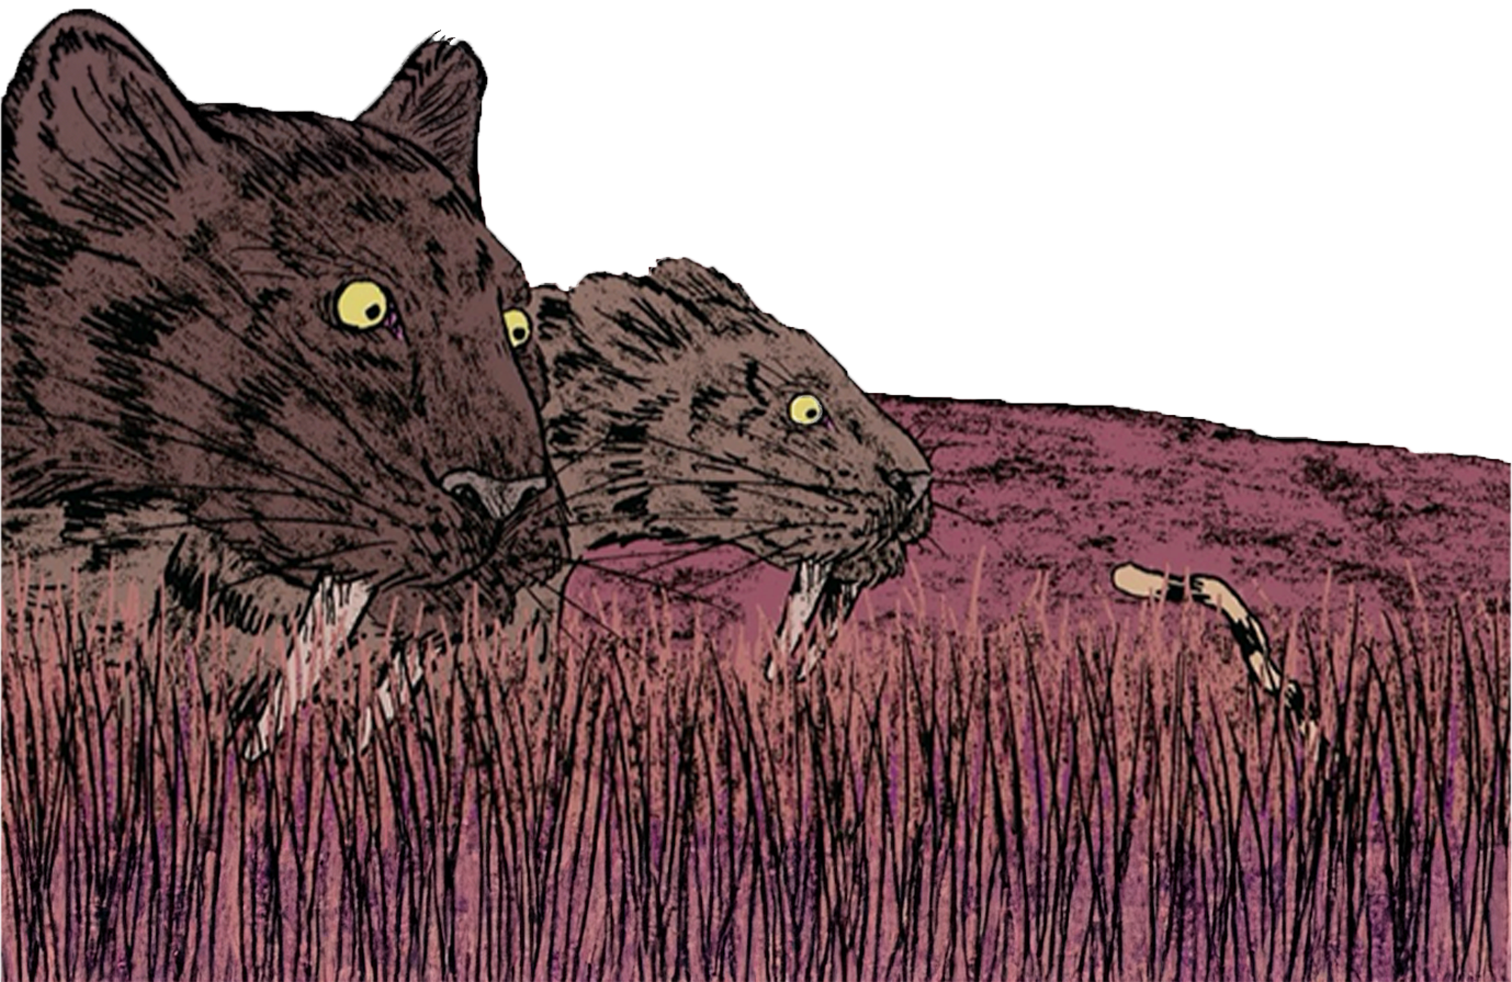
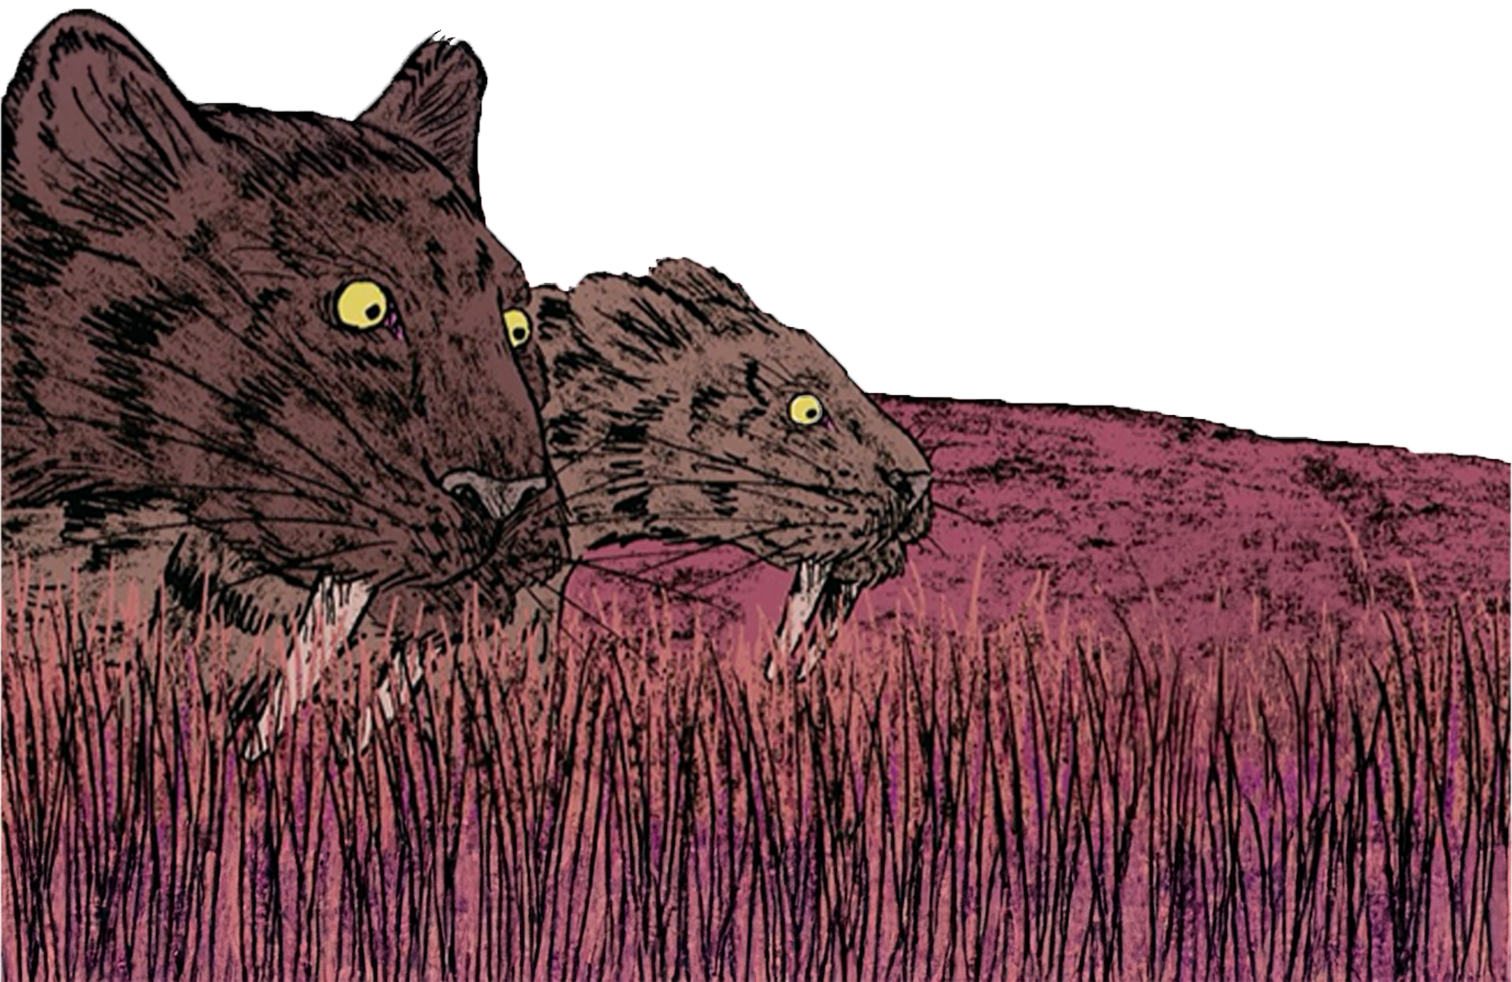
fin d'après-midi 19.11

Changed region(s): [[0.7149, 0.5193, 0.9325, 0.8554]]

diff --git a/src/js/main.js b/src/js/main.js
@@ -67,8 +67,8 @@ tl.fromTo(
   ".jumping-sabre",
   {},
   {
-    y: "-=600px",
-    x: "+=300px",
+    y: "-=700px",
+    x: "+=200px",
     duration: 2,
   },
   "tigres+=2"
@@ -82,6 +82,16 @@ tl.to(
   },
   "buffalo"
 );
+
+tl.to(".buffalo .nip", {
+  opacity: 0,
+  duration: 0,
+});
+
+tl.to(".buffalo .uproot", {
+  opacity: 1,
+  duration: 0,
+});
 
 tl.fromTo(
   ".buffalo",
@@ -99,8 +109,7 @@ tl.fromTo(
   {
     scale: 1,
     duration: 2,
-  },
-  "buffalo+=3"
+  }
 );
 
 tl.to(".screens-stroll", {
@@ -111,7 +120,7 @@ tl.to(".screens-stroll", {
 tl.to(
   ".screens-stroll",
   {
-    y: "-200%",
+    y: "-140%",
     duration: 8,
   },
   "corpse-down"
@@ -123,7 +132,7 @@ tl.fromTo(
   { scale: 1.5 },
   {
     scale: 1,
-    duration: 0.5,
+    duration: 3,
   },
   "autumn"
 );

diff --git a/src/scss/modules/_tigers.scss b/src/scss/modules/_tigers.scss
@@ -1,13 +1,13 @@
 .tigers {
-  height: 100%;
-  width: 100vw;
+  height: 100vh;
+  width: 100vh;
   flex-shrink: 0;
-  position: relative;
 }
 
 .tigers .sky {
-  width: 100%;
-  height: 80vh;
+  position: relative;
+  width: 80vh;
+  height: 100vh;
   background-image: url(/src/img/ciel.png);
 }
 
@@ -15,16 +15,16 @@
   width: 100%;
   height: 80vh;
   position: absolute;
-  bottom: 20;
+  bottom: 8;
   background-image: url(/src/img/tigre.png);
   background-repeat: no-repeat;
 }
 
 .tigres .jumping-sabre {
-  width: 50%;
-  height: 1000px;
+  width: 100%;
+  height: 100%;
   position: absolute;
-  left: -19px;
+  left: -18px;
   bottom: -880px;
   background-image: url(/src/img/saut.png);
 }

diff --git a/src/index.html b/src/index.html
@@ -71,7 +71,10 @@
           </div>
         </div>
         <div class="buffalo">
-          <div><img src="img/croquer.png" alt="croquer" /></div>
+          <div class="nip"><img src="img/croquer.png" alt="croquer" /></div>
+          <div class="uproot">
+            <img src="img/arracher.png" alt="arracher" />
+          </div>
         </div>
         <div class="corpse">
           <div class="time"><img src="img/cadavre.png" alt="cadavre" /></div>

diff --git a/src/scss/modules/_buffalo.scss b/src/scss/modules/_buffalo.scss
@@ -7,3 +7,21 @@
 .buffalo img {
   width: 100%;
 }
+
+.buffalo .nip {
+  position: absolute;
+  width: 100%;
+  bottom: 0;
+  left: 0;
+  opacity: 1;
+  z-index: 1;
+}
+
+.buffalo .uproot {
+  position: absolute;
+  width: 100%;
+  bottom: 0;
+  left: 0;
+  opacity: 0;
+  z-index: 2;
+}

diff --git a/src/scss/modules/_corpse.scss b/src/scss/modules/_corpse.scss
@@ -1,7 +1,7 @@
 .corpse {
   position: relative;
-  width: 100vw;
-  height: 300vh;
+  width: 100vh;
+  height: fit-content;
   flex-shrink: 0;
 }
 
@@ -9,6 +9,7 @@
   width: 100%;
   height: auto;
 }
+
 .corpse .autumn {
   position: absolute;
   width: 100%;

diff --git a/src/scss/modules/_footer.scss b/src/scss/modules/_footer.scss
@@ -22,7 +22,7 @@ footer img {
   .call-to-action {
     position: absolute;
     top: 65%;
-    left: 65%;
+    left: 57%;
   }
 
   .produit {
